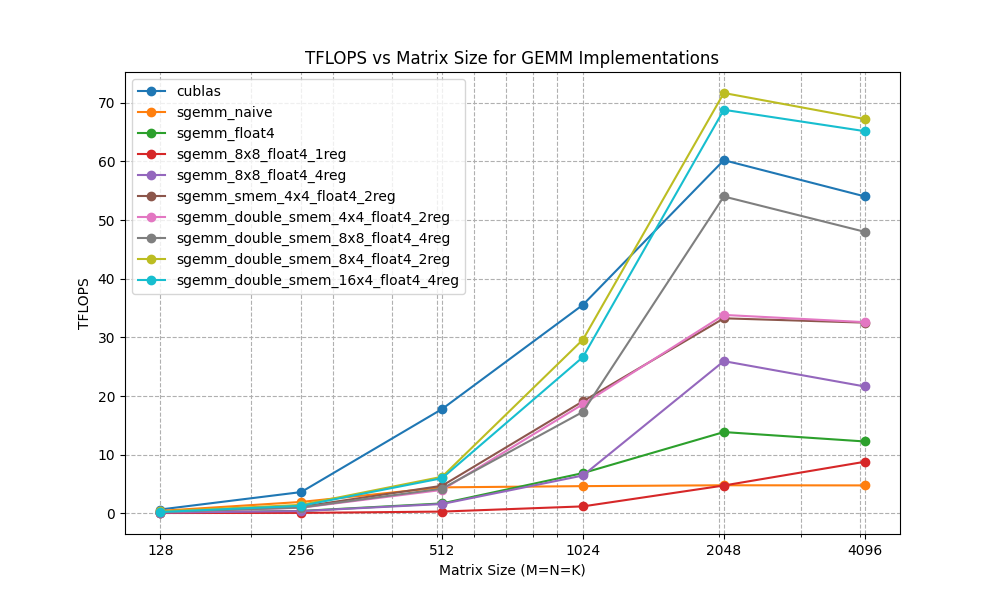
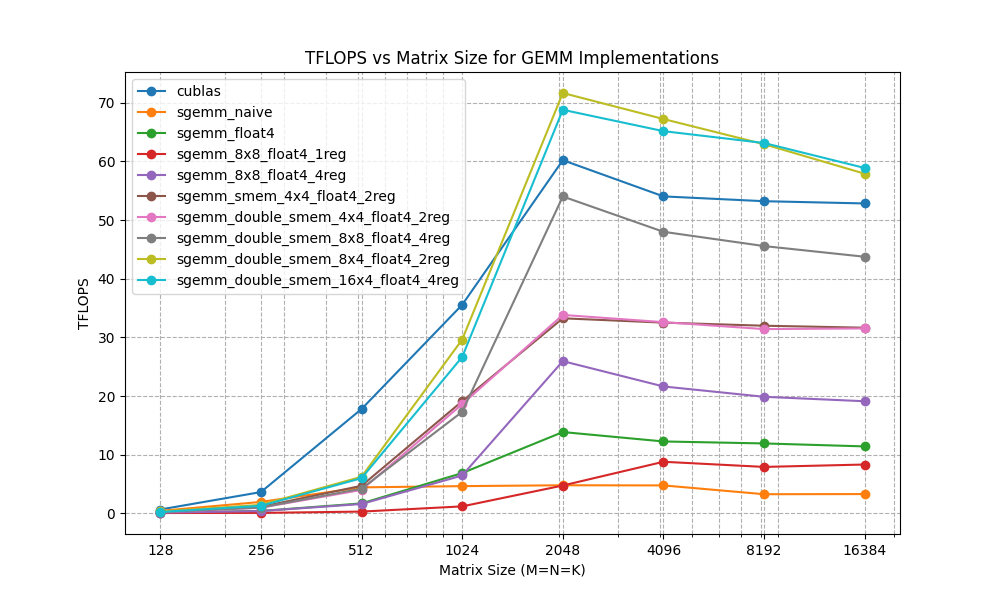
update performance chart

diff --git a/script/draw_performance.py b/script/draw_performance.py
@@ -1,20 +1,20 @@
 import matplotlib.pyplot as plt
 
 # Matrix sizes (assuming M=N=K for all cases)
-matrix_sizes = [128, 256, 512, 1024, 2048, 4096]
+matrix_sizes = [128, 256, 512, 1024, 2048, 4096, 8192, 16384]
 
 # TFlops data for different implementations
-tflops_naive = [0.42048, 1.94245, 4.42909, 4.63712, 4.78555, 4.76005]
-tflops_float4 = [0.0969711, 0.406179, 1.69068, 6.86251, 13.8581, 12.2531]
-tflops_8x8_float4 = [0.0562432, 0.0738832, 0.296355, 1.1839, 4.74396, 8.79142]
-tflops_8x8_float4_2 = [0.117967, 0.38354, 1.58972, 6.45044, 25.9499, 21.6301]
-tflops_8x8_float4_3 = [0.0903994, 0.206104, 0.823361, 3.23149, 3.65489, 3.85061]
-tflops_smem_float4 = [0.247278, 1.11406, 4.69703, 19.1078, 33.2531, 32.5154]
-tflops_double_smem_float4 = [0.216512, 0.955379, 3.99391, 18.6094, 33.8312, 32.5972]
-tflops_double_smem_2x1_float4 = [0.317381, 1.44273, 6.22994, 29.6216, 71.6691, 67.2297]
-tflops_double_smem_4x1_float4 = [0.224404, 1.28326, 5.98985, 26.6505, 68.8064, 65.1629]
-tflops_sgemm_128x128x8 = [0.212438, 0.993139, 4.20332, 17.3069, 54.0235, 48.0013]
-tflops_cublas = [0.650095, 3.62378, 17.78, 35.5562, 60.2139, 54.0386]
+tflops_naive = [0.42048, 1.94245, 4.42909, 4.63712, 4.78555, 4.76005, 3.25899, 3.28565]
+tflops_float4 = [0.0969711, 0.406179, 1.69068, 6.86251, 13.8581, 12.2531, 11.9171, 11.4097]
+tflops_8x8_float4 = [0.0562432, 0.0738832, 0.296355, 1.1839, 4.74396, 8.79142, 7.9129, 8.32315]
+tflops_8x8_float4_2 = [0.117967, 0.38354, 1.58972, 6.45044, 25.9499, 21.6301, 19.8703, 19.1099]
+tflops_8x8_float4_3 = [0.0903994, 0.206104, 0.823361, 3.23149, 3.65489, 3.85061, 3.82752, 3.8733]
+tflops_smem_float4 = [0.247278, 1.11406, 4.69703, 19.1078, 33.2531, 32.5154, 31.988, 31.6517]
+tflops_double_smem_float4 = [0.216512, 0.955379, 3.99391, 18.6094, 33.8312, 32.5972, 31.4139, 31.5265]
+tflops_double_smem_2x1_float4 = [0.317381, 1.44273, 6.22994, 29.6216, 71.6691, 67.2297, 62.9372, 57.9009]
+tflops_double_smem_4x1_float4 = [0.224404, 1.28326, 5.98985, 26.6505, 68.8064, 65.1629, 63.14, 58.8808]
+tflops_sgemm_128x128x8 = [0.212438, 0.993139, 4.20332, 17.3069, 54.0235, 48.0013, 45.5683, 43.7465]
+tflops_cublas = [0.650095, 3.62378, 17.78, 35.5562, 60.2139, 54.0386, 53.2204, 52.8366]
 
 # Plot
 plt.figure(figsize=(10, 6))

diff --git a/src/gemm_test_v2.cpp b/src/gemm_test_v2.cpp
@@ -306,9 +306,9 @@ int main() {
     {512, 512, 512},
     {1024, 1024, 1024},
     {2048, 2048, 2048},
-    {4096, 4096, 4096}
-    // {8192, 8192, 8192},
-    // {16384, 16384, 16384}
+    {4096, 4096, 4096},
+    {8192, 8192, 8192},
+    {16384, 16384, 16384}
   };
   // Define test gemm functions
   std::vector<std::tuple<std::string, gemmFunction, bool>> gemmFuncNamePairs {
